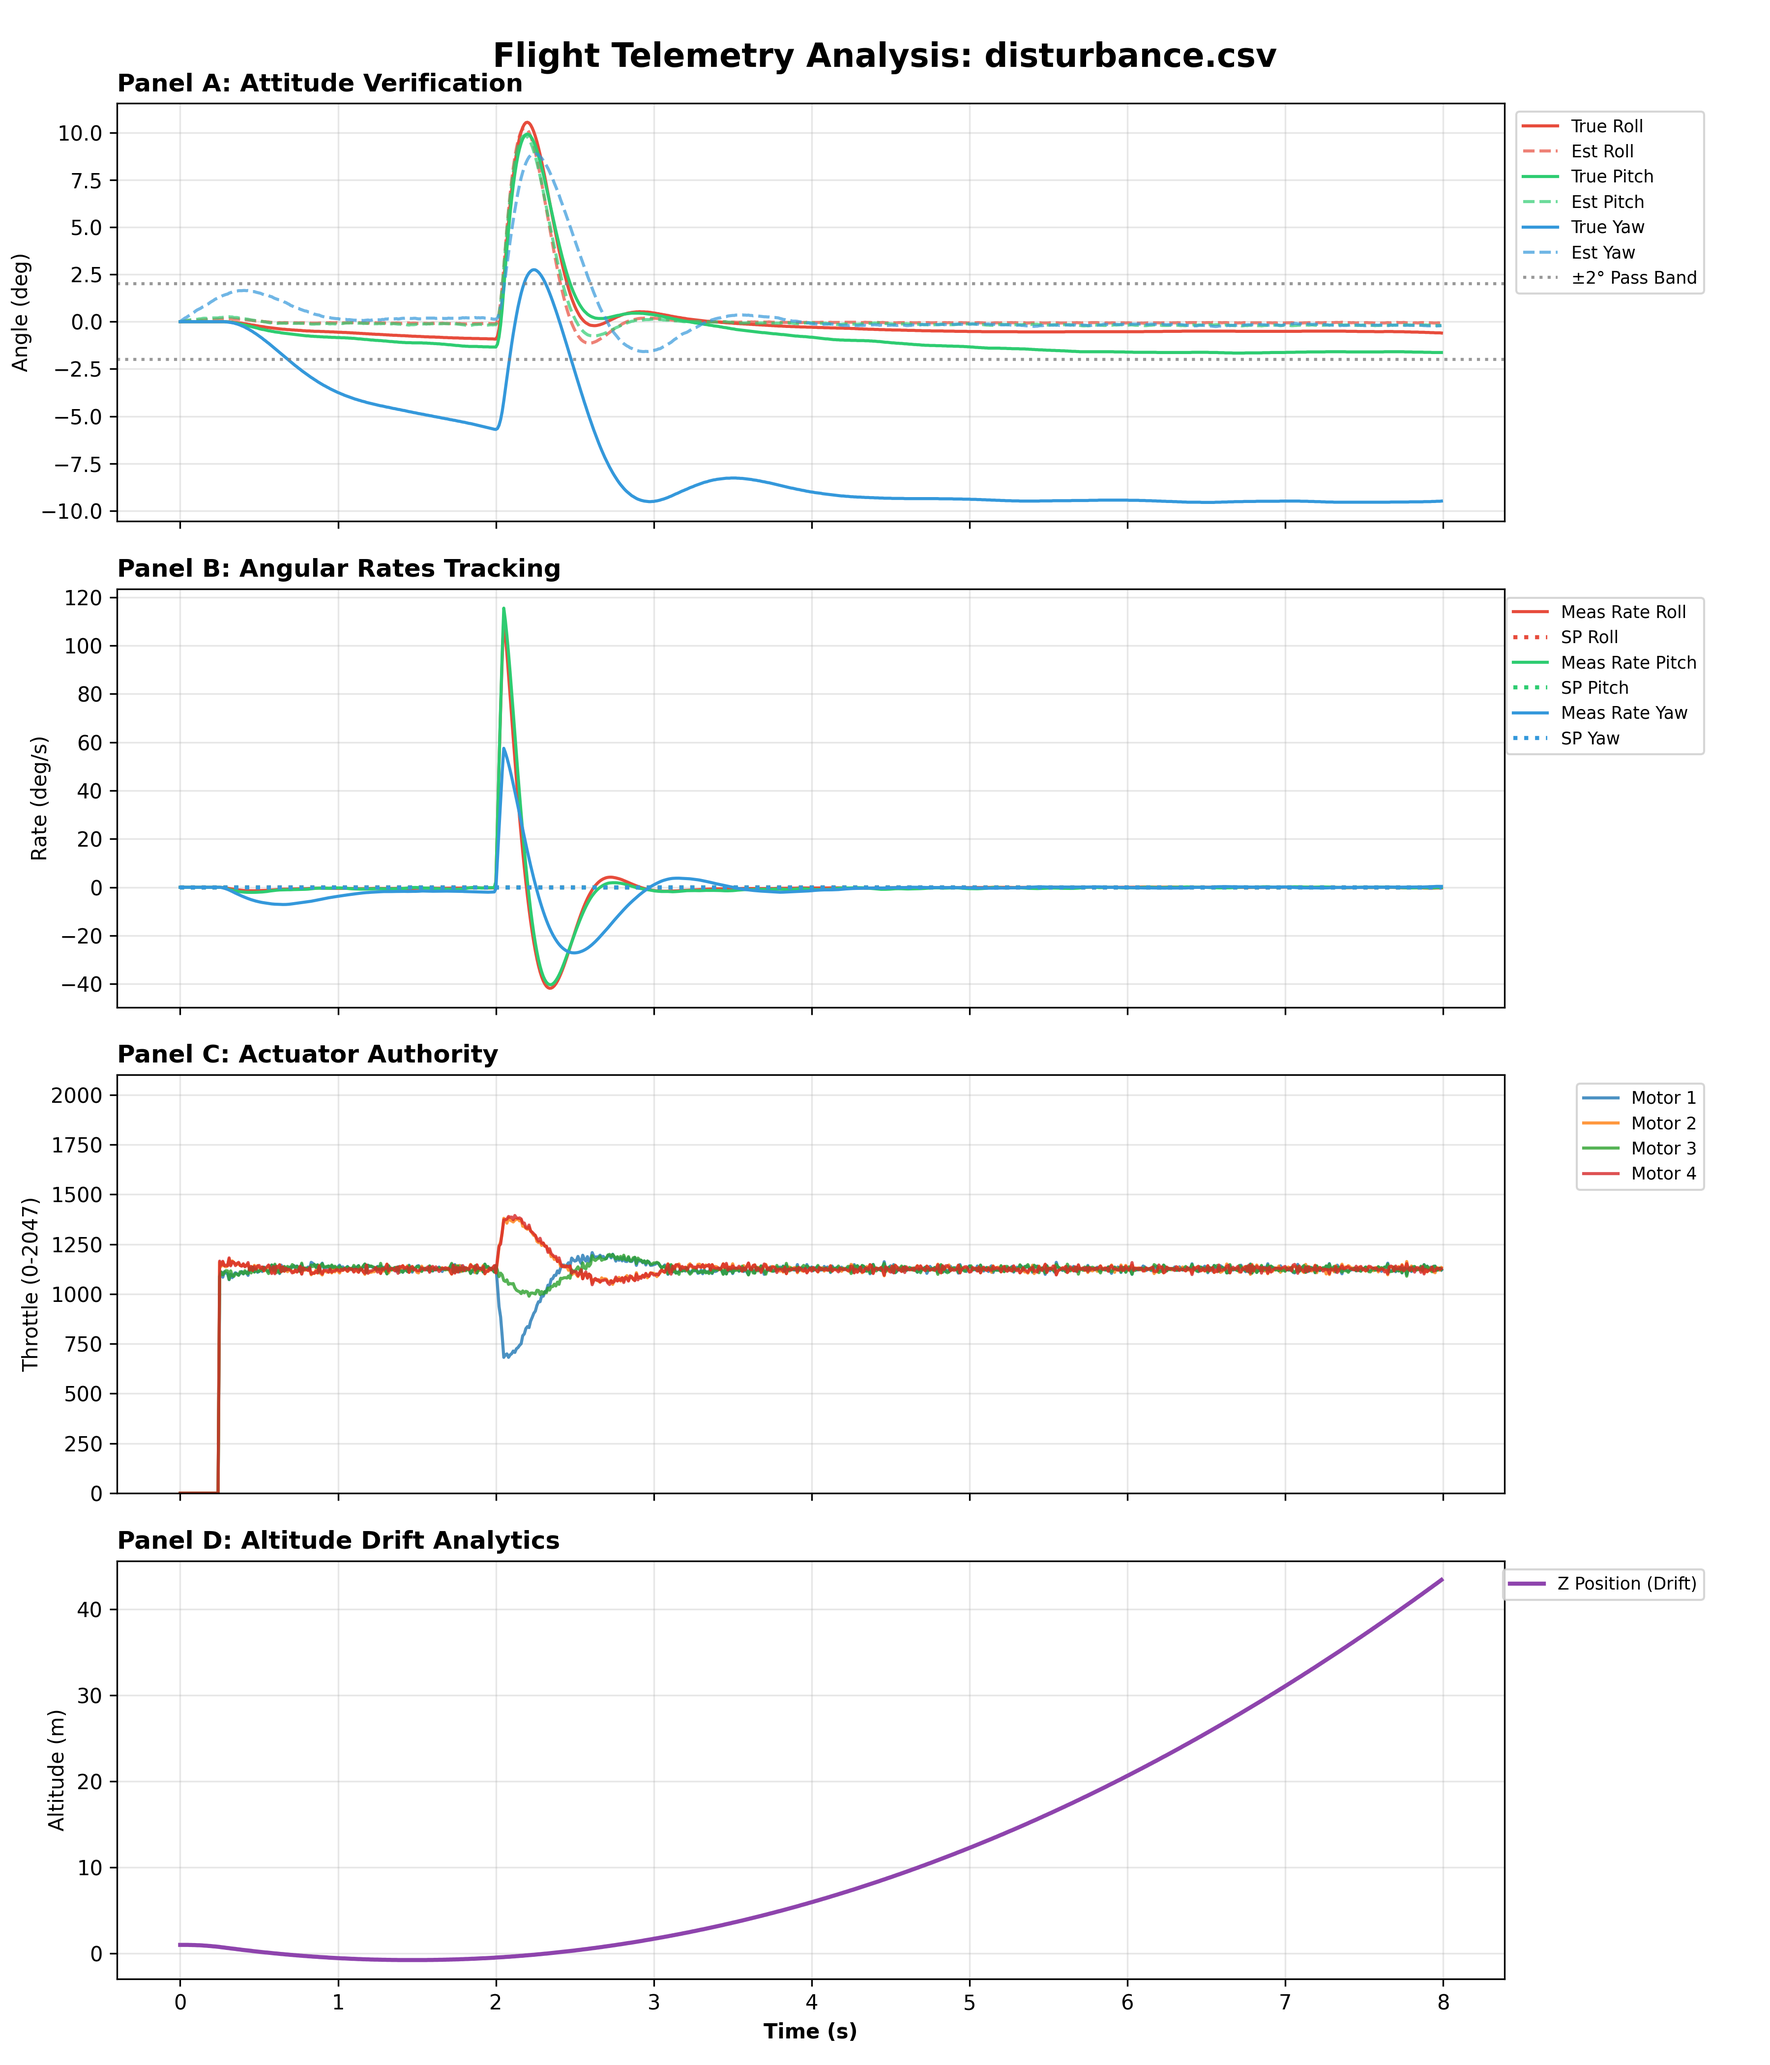
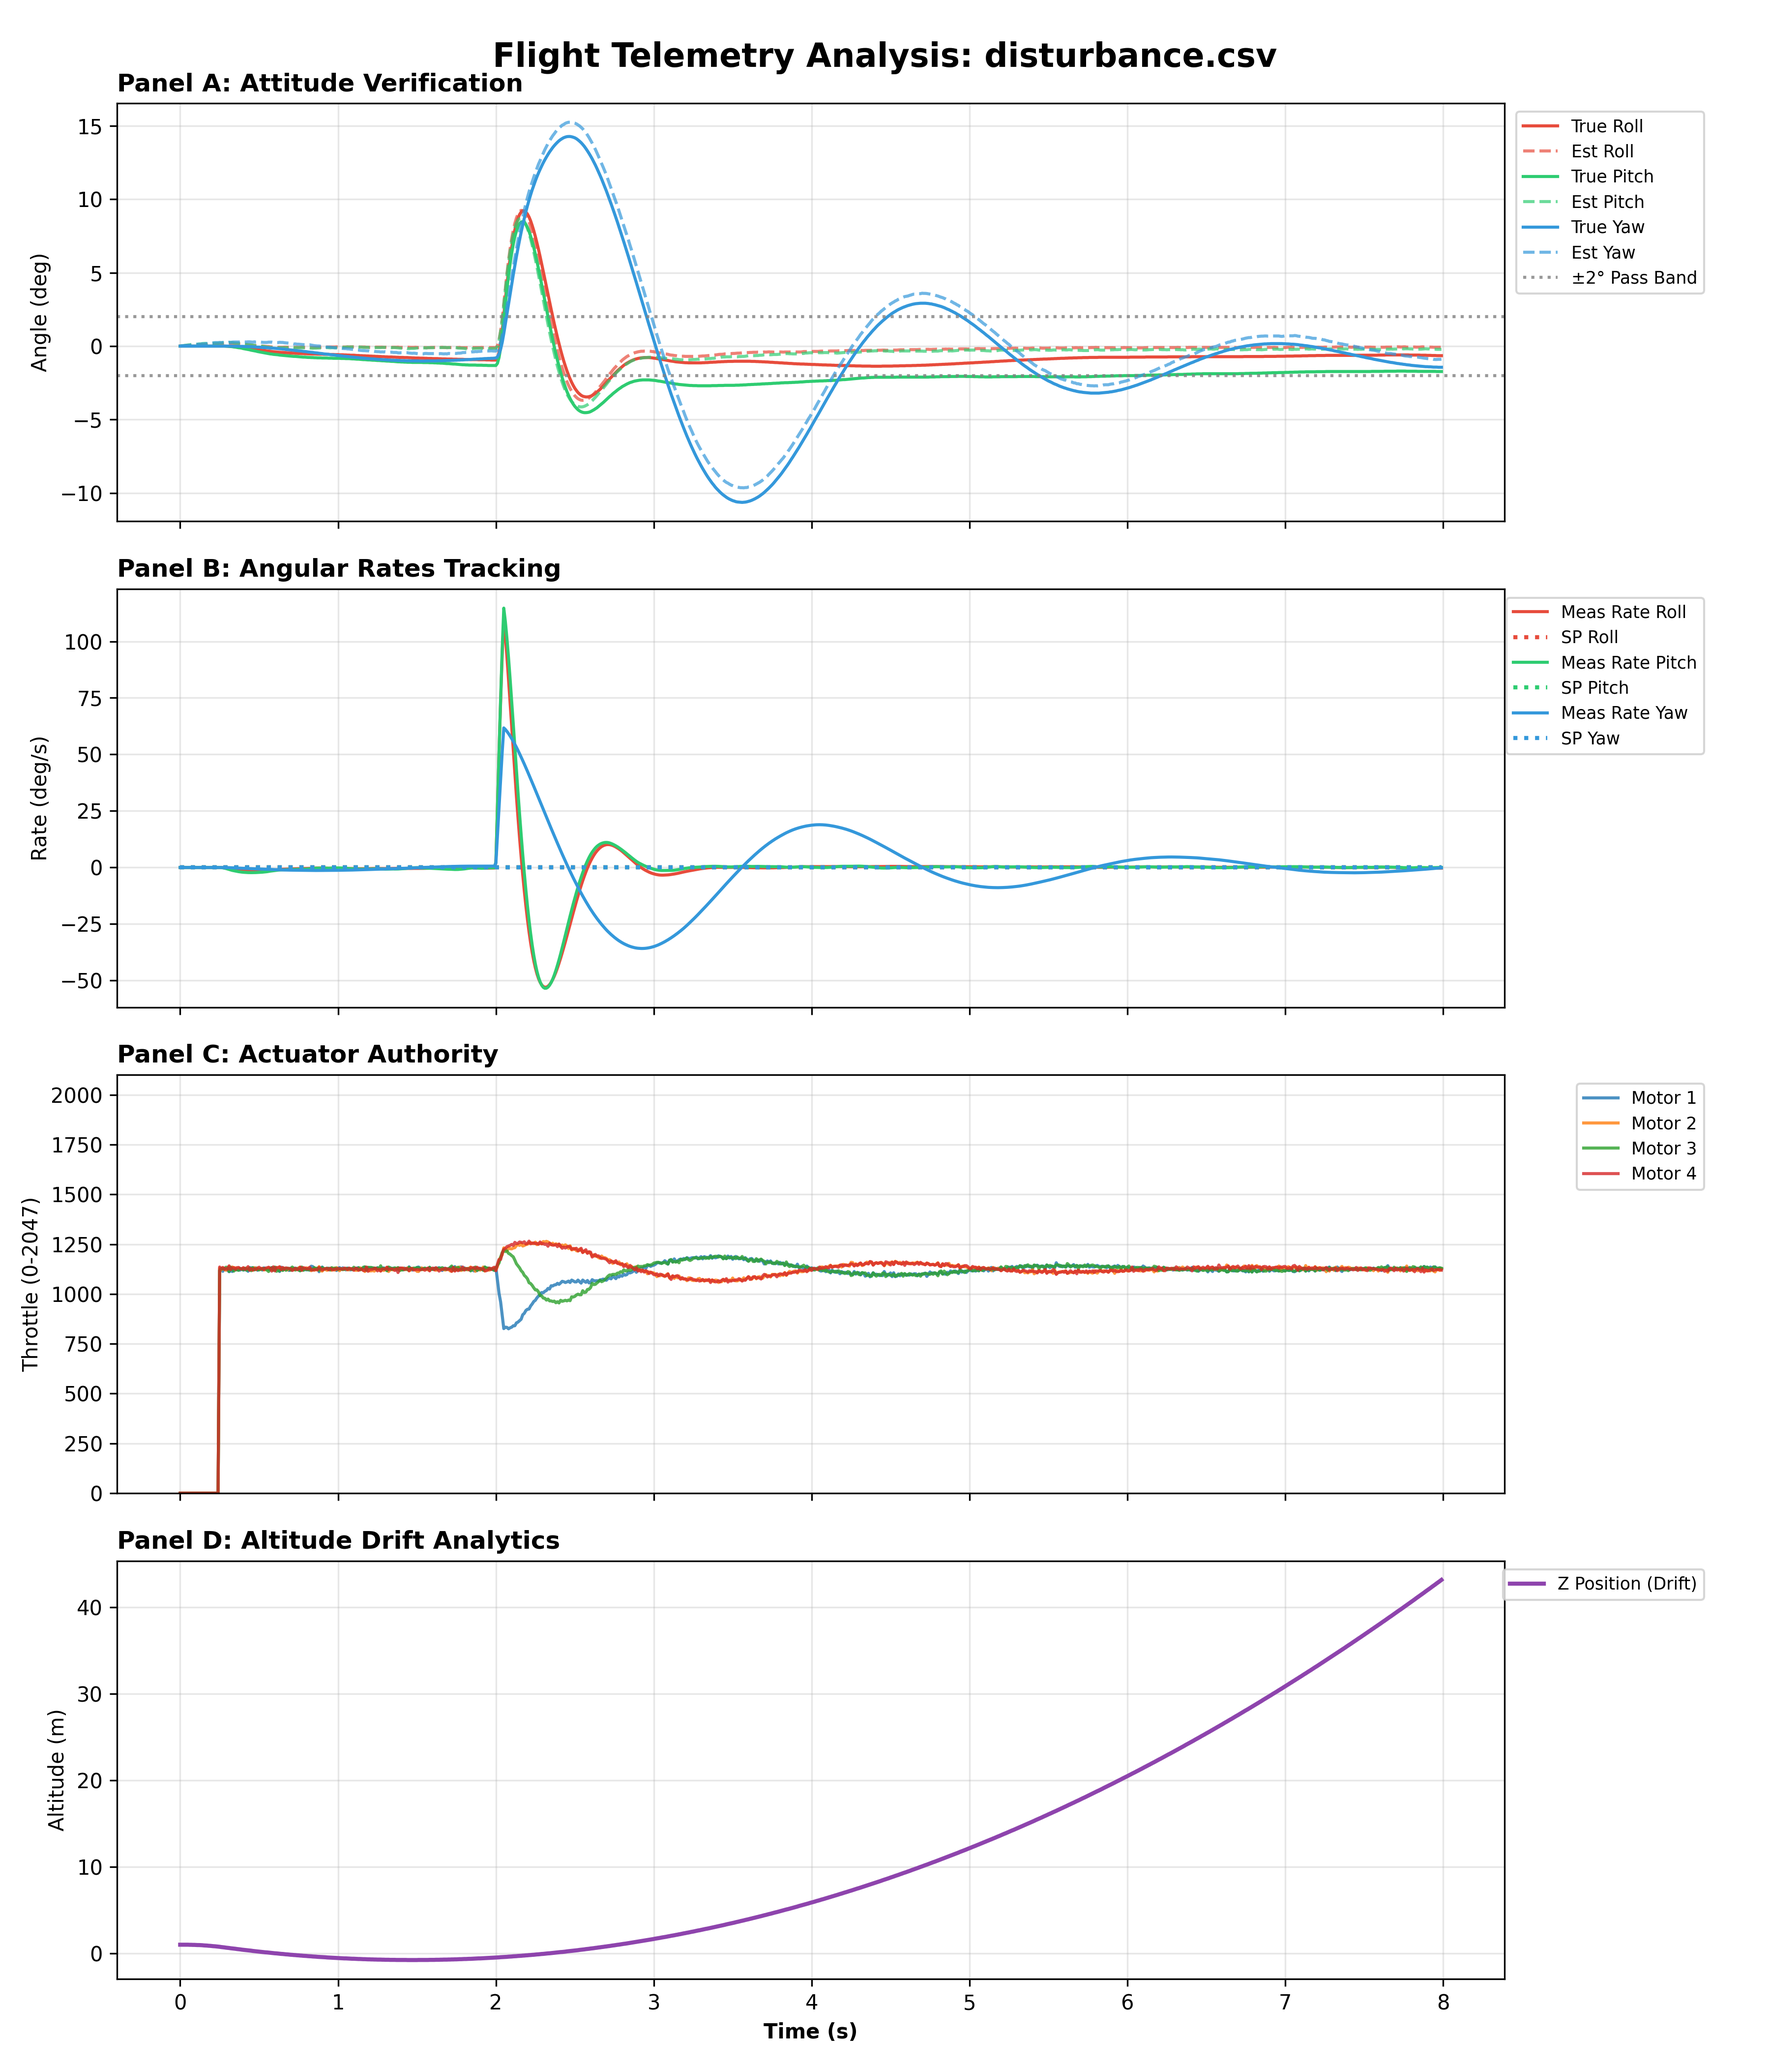
tuned pid and fixed some bugs

diff --git a/src/config.c b/src/config.c
@@ -16,21 +16,21 @@ float ALPHA_LPF          = 0.15f; // Low-pass filter constant for D-term noise
 // ==============================================================================
 float kp_roll_angle = 6.0f;       // Converts angle error (rad) to rate setpoint (rad/s)
 float kp_roll_rate  = 0.02f;      // Converts rate error to normalized torque
-float ki_roll_rate  = 0.00001f;   // Eliminates steady-state offset
+float ki_roll_rate  = 0.025f;   // Eliminates steady-state offset
 float kd_roll_rate  = 0.000f;     // Dampens high-frequency oscillation
 
 // ==============================================================================
 // PITCH AXIS GAINS (Symmetrical Quad-X)
 // ==============================================================================
-float kp_pitch_angle = 12.0f;
+float kp_pitch_angle = 6.0f;
 float kp_pitch_rate  = 0.02f;
-float ki_pitch_rate  = 0.00001f;
+float ki_pitch_rate  = 0.025f;
 float kd_pitch_rate  = 0.000f;
 
 // ==============================================================================
 // YAW AXIS GAINS
 // ==============================================================================
-float kp_yaw_angle = 5.0f;        
-float kp_yaw_rate  = 0.1;    
-float ki_yaw_rate  = 0.0000001f;
+float kp_yaw_angle = 4.0f;        
+float kp_yaw_rate  = 0.04;    
+float ki_yaw_rate  = 0.02f;
 float kd_yaw_rate  = 0.000f;    // Rarely use D-term on Yaw (causes motor twitching)

diff --git a/src/attitude.c b/src/attitude.c
@@ -20,7 +20,7 @@
 #define KP_ACC 2.0f     /**< Proportional gain for accelerometer feedback */
 #define KI_ACC 0.005f   /**< Integral gain for accelerometer feedback */
 #define KP_MAG 2.5f     /**< INCREASED: Proportional gain for magnetometer feedback */
-#define KI_MAG 0.002f   /**< Integral gain for magnetometer feedback */
+#define KI_MAG 0.035f   /**< Integral gain for magnetometer feedback */
 
 /* Global Filter Tracking Orientation Matrices */
 static quat_t q     = {1.0f, 0.0f, 0.0f, 0.0f};  
@@ -178,6 +178,8 @@ if (mag_norm > 0.0f) {
  * @param pitch Pointer to store the computed pitch angle.
  * @param yaw Pointer to store the computed yaw angle.
  */
+
+
 void attitude_get_euler(float *roll, float *pitch, float *yaw) {
     *roll = atan2f(2.0f * (q.w * q.x + q.y * q.z), 1.0f - 2.0f * (q.x * q.x + q.y * q.y)) * (180.0f / M_PI);
     

diff --git a/sim/scenarios.c b/sim/scenarios.c
@@ -29,7 +29,7 @@ bool scenario_parse_and_setup(const char* scenario_name, scenario_config_t* conf
     // 2. SCENARIO 2: TILT RECOVERY
     else if (strcmp(scenario_name, "tilt_recovery") == 0) {
         config_out->type = SCENARIO_TILT_RECOVERY;
-        config_out->duration_s = 5.0f;
+        config_out->duration_s = 30.0f;
         // Init: 30 deg roll. Convert to quaternion (w = cos(theta/2), x = sin(theta/2))
         float half_angle_rad = (30.0f * (M_PI / 180.0f)) * 0.5f;
         config_out->initial_state.orientation.w = cosf(half_angle_rad);
